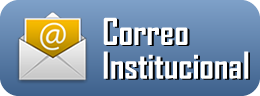
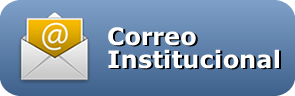
imagenes de popup de intranet

Changed region(s): [[0.0615, 0.1562, 0.9846, 0.875], [0.1538, 0.125, 0.2462, 0.1875], [0.9846, 0.9062, 1.0, 0.9375]]

diff --git a/css/estilos.css b/css/estilos.css
@@ -944,13 +944,13 @@ header nav ul .submenu-prensa li a {
 #busqueda_doctor {
   float: left;
   width: 207px;
-  background-color: #C7D9E5;
+  background-color: #268DC3;
   border-radius: 10px 10px 10px 10px;
   -moz-border-radius: 10px 10px 10px 10px;
   -webkit-border-radius: 10px 10px 10px 10px;
   margin: 5px 0;
   border: 1px solid #256D9C;
-  color: #039;
+  color: #fff;
   padding: 5px;
 }
 #busqueda_doctor span.icon-medico {
@@ -1077,7 +1077,7 @@ header nav ul .submenu-prensa li a {
 }
 #opciones-lista li a#popupen-ubicanos {
   height: 160px;
-  font-size: 25px;
+  font-size: 14px;
   padding: 10px 0;
   text-align: center;
 }
@@ -1208,7 +1208,7 @@ POPUP
   left: 78px;
 }
 #popup-intranet {
-  width: 300px;
+  width: 335px;
 }
 #popup-intranet #popup-intranet-cerrar {
   display: block;
@@ -1219,7 +1219,7 @@ POPUP
   font-weight: bold;
 }
 #popup-intranet h2 {
-  left: 95px;
+  left: 110px;
 }
 .popup {
   border-radius: 10px 10px 10px 10px;
@@ -1241,6 +1241,7 @@ POPUP
 }
 .popup .popup-box {
   padding: 70px 20px 20px 20px;
+  color: #878787;
 }
 .popup .popup-box p {
   font-size: 12px;

diff --git a/less/estilos.less b/less/estilos.less
@@ -1137,11 +1137,11 @@ header nav{
 #busqueda_doctor{
 	float:left;
 	width:207px;
-	background-color:#C7D9E5;
+	background-color:#268DC3;
 	.borde-redondeado();
 	margin:5px 0;
 	border:1px solid #256D9C;
-	color:#039;
+	color:#fff;
 	padding:5px;
 
 	span.icon-medico{
@@ -1272,7 +1272,7 @@ header nav{
 
 		a#popupen-ubicanos{
 			height: 160px;
-			font-size: 25px;
+			font-size: 14px;
 			padding: 10px 0;
 			text-align: center;			
 		}
@@ -1417,14 +1417,14 @@ POPUP
 }
 
 #popup-intranet{
-	width: 300px;
+	width: 335px;
 
 	#popup-intranet-cerrar{
 		.popup-cerrar();
 	}
 
 	h2{
-		left: 95px;
+		left: 110px;
 	}
 }
 
@@ -1446,6 +1446,7 @@ POPUP
 
 	.popup-box{ 
 		padding:70px 20px 20px 20px;
+		color: #878787;
 
 		p{
 			font-size:12px;
